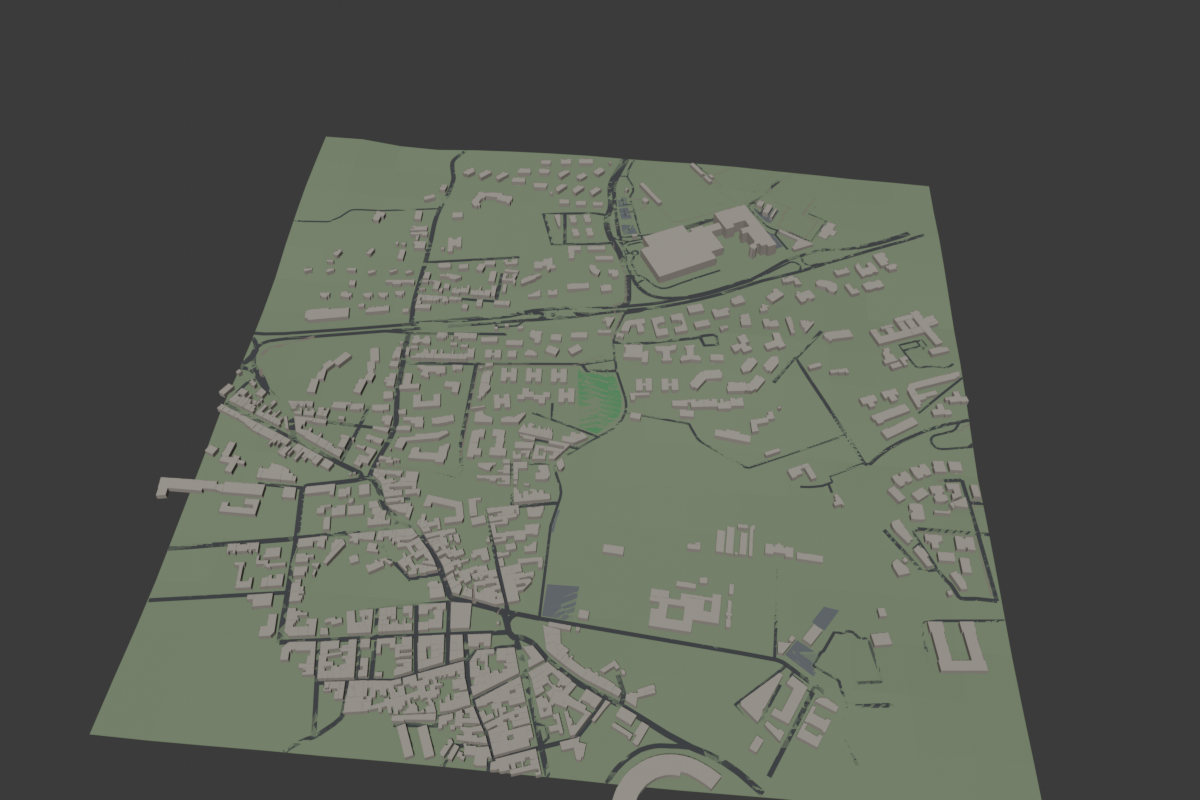
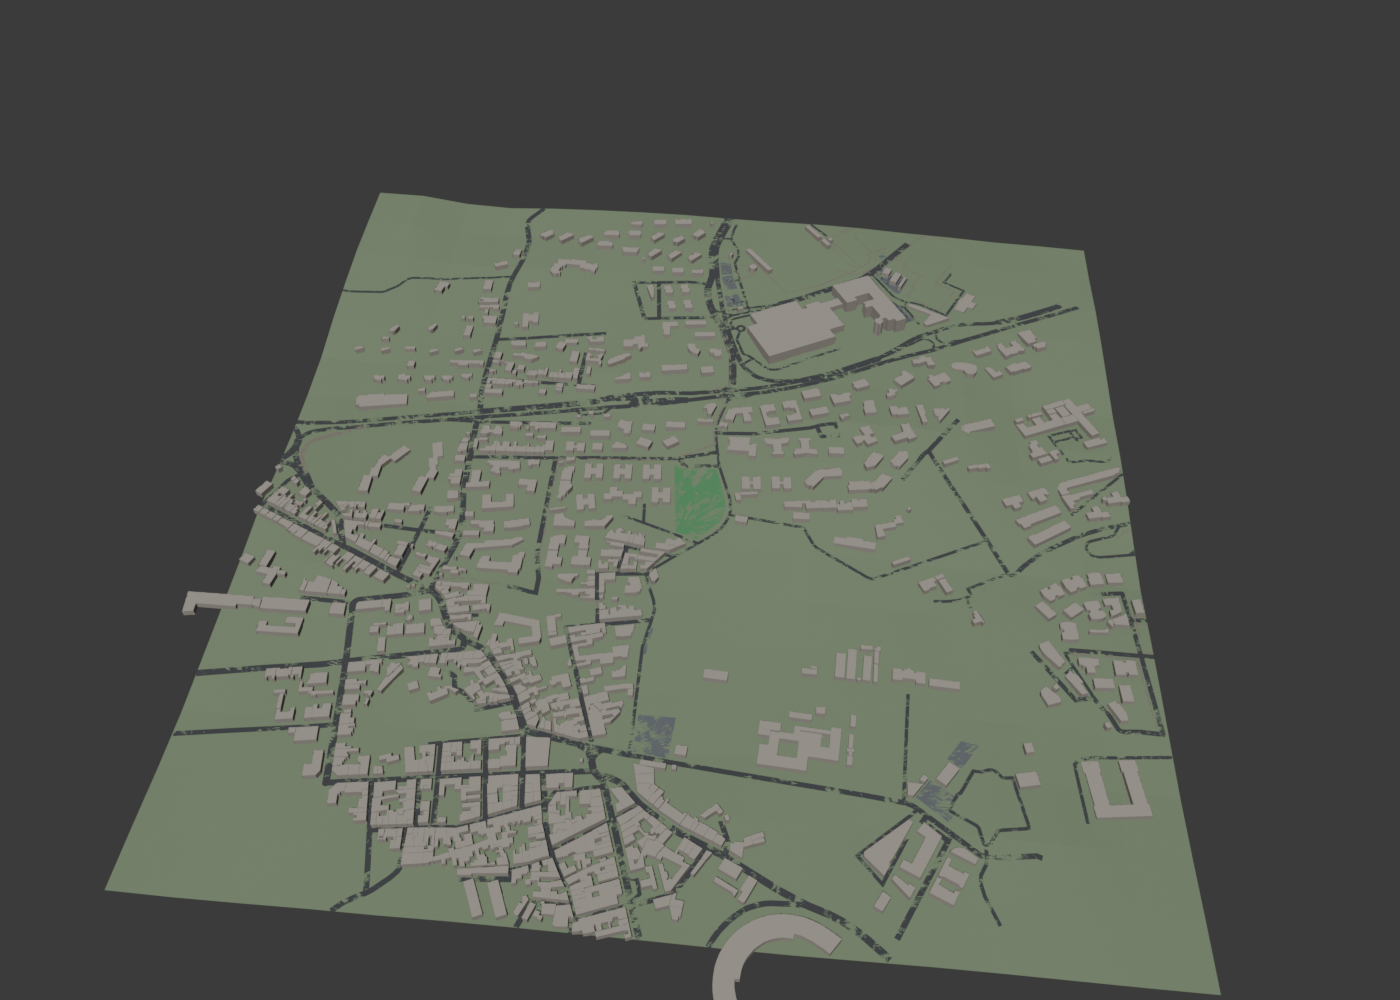
fixed issues of strange rappresentation of the map.

diff --git a/tools/build_blender_scene.py b/tools/build_blender_scene.py
@@ -13,6 +13,15 @@ from typing import Any
 
 import bpy
 from mathutils import Vector
+from mathutils.geometry import tessellate_polygon
+
+
+ROAD_SURFACE_OFFSET_M = 0.12
+PATH_SURFACE_OFFSET_M = 0.10
+AREA_SURFACE_OFFSET_M = 0.08
+ROAD_SAMPLE_STEP_M = 5.0
+AREA_SAMPLE_STEP_M = 10.0
+TERRAIN_SUBDIVISIONS = 4
 
 
 def arguments() -> argparse.Namespace:
@@ -95,37 +104,84 @@ class Terrain:
         )
 
 
-def terrain_mesh(value: dict[str, Any], parent: bpy.types.Collection, mat: bpy.types.Material) -> bpy.types.Object:
-    size = int(value["grid_size"])
-    vertices = [tuple(point) for point in value["samples_blender_xyz_m"]]
+def terrain_mesh(terrain: Terrain, parent: bpy.types.Collection, mat: bpy.types.Material) -> bpy.types.Object:
+    size = (terrain.size - 1) * TERRAIN_SUBDIVISIONS + 1
+    spacing = 2.0 * terrain.extent / (size - 1)
+    vertices: list[tuple[float, float, float]] = []
+    for row in range(size):
+        north = -terrain.extent + row * spacing
+        for col in range(size):
+            east = -terrain.extent + col * spacing
+            vertices.append((east, north, terrain.z(east, north)))
     faces: list[tuple[int, ...]] = []
     for row in range(size - 1):
         for col in range(size - 1):
             lower = row * size + col
-            faces.append((lower, lower + 1, lower + size + 1, lower + size))
+            faces.extend(
+                [
+                    (lower, lower + 1, lower + size + 1),
+                    (lower, lower + size + 1, lower + size),
+                ]
+            )
     obj = mesh_object("Terrain-col", vertices, faces, parent, mat)
-    obj["description"] = "DEM terrain; -col suffix is intended for Godot collision import"
+    obj["description"] = "Subdivided DEM terrain; -col suffix is intended for Godot collision import"
     return obj
 
 
-def strip_geometry(points: list[list[float]], width: float) -> tuple[list[tuple[float, float, float]], list[tuple[int, ...]]]:
+def horizontal_distance(left: tuple[float, float], right: tuple[float, float]) -> float:
+    return math.hypot(right[0] - left[0], right[1] - left[1])
+
+
+def draped_polyline(points: list[list[float]], terrain: Terrain, offset: float) -> list[tuple[float, float, float]]:
+    result: list[tuple[float, float, float]] = []
+    for left, right in zip(points, points[1:]):
+        length = horizontal_distance((left[0], left[1]), (right[0], right[1]))
+        pieces = max(1, int(math.ceil(length / ROAD_SAMPLE_STEP_M)))
+        for index in range(pieces):
+            ratio = index / pieces
+            east = left[0] + (right[0] - left[0]) * ratio
+            north = left[1] + (right[1] - left[1]) * ratio
+            if not result or horizontal_distance((east, north), result[-1][:2]) > 1e-5:
+                result.append((east, north, terrain.z(east, north) + offset))
+    last = points[-1]
+    result.append((last[0], last[1], terrain.z(last[0], last[1]) + offset))
+    return result
+
+
+def strip_geometry(
+    points: list[list[float]], width: float, terrain: Terrain, offset: float
+) -> tuple[list[tuple[float, float, float]], list[tuple[int, ...]]]:
+    centerline = draped_polyline(points, terrain, offset)
     vertices: list[tuple[float, float, float]] = []
-    for index, point in enumerate(points):
+    for index, point in enumerate(centerline):
         if index == 0:
-            tangent = Vector((points[1][0] - point[0], points[1][1] - point[1]))
-        elif index == len(points) - 1:
-            tangent = Vector((point[0] - points[index - 1][0], point[1] - points[index - 1][1]))
+            tangent = Vector((centerline[1][0] - point[0], centerline[1][1] - point[1])).normalized()
+            normal = Vector((-tangent.y, tangent.x))
+        elif index == len(centerline) - 1:
+            tangent = Vector((point[0] - centerline[index - 1][0], point[1] - centerline[index - 1][1])).normalized()
+            normal = Vector((-tangent.y, tangent.x))
         else:
-            tangent = Vector((points[index + 1][0] - points[index - 1][0], points[index + 1][1] - points[index - 1][1]))
-        tangent.normalize()
-        normal = Vector((-tangent.y, tangent.x)) * width * 0.5
+            previous = Vector((point[0] - centerline[index - 1][0], point[1] - centerline[index - 1][1])).normalized()
+            following = Vector((centerline[index + 1][0] - point[0], centerline[index + 1][1] - point[1])).normalized()
+            previous_normal = Vector((-previous.y, previous.x))
+            following_normal = Vector((-following.y, following.x))
+            normal = previous_normal + following_normal
+            if normal.length < 1e-6:
+                normal = following_normal
+            else:
+                normal.normalize()
+            correction = abs(normal.dot(following_normal))
+            normal *= min(2.25, 1.0 / max(correction, 0.45))
+        normal *= width * 0.5
+        left = (point[0] + normal.x, point[1] + normal.y)
+        right = (point[0] - normal.x, point[1] - normal.y)
         vertices.extend(
             [
-                (point[0] + normal.x, point[1] + normal.y, point[2]),
-                (point[0] - normal.x, point[1] - normal.y, point[2]),
+                (left[0], left[1], terrain.z(*left) + offset),
+                (right[0], right[1], terrain.z(*right) + offset),
             ]
         )
-    faces = [(2 * i, 2 * i + 1, 2 * i + 3, 2 * i + 2) for i in range(len(points) - 1)]
+    faces = [(2 * i, 2 * i + 1, 2 * i + 3, 2 * i + 2) for i in range(len(centerline) - 1)]
     return vertices, faces
 
 
@@ -151,29 +207,71 @@ def extruded_polygon(
     name: str,
     points: list[list[float]],
     height: float,
+    terrain: Terrain,
     parent: bpy.types.Collection,
     mat: bpy.types.Material,
 ) -> bpy.types.Object | None:
     base = polygon_points(points)
     if len(base) < 3:
         return None
-    vertices = base + [(x, y, z + height) for x, y, z in base]
+    base_z = min(terrain.z(x, y) for x, y, _z in base) + 0.03
+    vertices = [(x, y, base_z) for x, y, _z in base] + [(x, y, base_z + height) for x, y, _z in base]
     count = len(base)
     faces: list[tuple[int, ...]] = [tuple(reversed(range(count))), tuple(range(count, 2 * count))]
     faces.extend((i, (i + 1) % count, count + (i + 1) % count, count + i) for i in range(count))
     return mesh_object(name, vertices, faces, parent, mat)
 
 
-def flat_polygon(
+def subdivided_triangle(
+    triangle: tuple[Vector, Vector, Vector],
+    terrain: Terrain,
+    offset: float,
+    vertices: list[tuple[float, float, float]],
+    faces: list[tuple[int, ...]],
+) -> None:
+    a, b, c = triangle
+    if max((a - b).length, (b - c).length, (c - a).length) > AREA_SAMPLE_STEP_M:
+        ab, bc, ca = (a + b) * 0.5, (b + c) * 0.5, (c + a) * 0.5
+        for child in ((a, ab, ca), (ab, b, bc), (ca, bc, c), (ab, bc, ca)):
+            subdivided_triangle(child, terrain, offset, vertices, faces)
+        return
+    start = len(vertices)
+    vertices.extend((point.x, point.y, terrain.z(point.x, point.y) + offset) for point in triangle)
+    faces.append((start, start + 1, start + 2))
+
+
+def draped_polygon(
     name: str,
     points: list[list[float]],
+    terrain: Terrain,
     parent: bpy.types.Collection,
     mat: bpy.types.Material,
 ) -> bpy.types.Object | None:
-    vertices = polygon_points(points)
-    if len(vertices) < 3:
+    boundary = polygon_points(points)
+    if len(boundary) < 3:
         return None
-    return mesh_object(name, vertices, [tuple(range(len(vertices)))], parent, mat)
+    polygon = [Vector((x, y, 0.0)) for x, y, _z in boundary]
+    triangles = tessellate_polygon([polygon])
+    vertices: list[tuple[float, float, float]] = []
+    faces: list[tuple[int, ...]] = []
+    for triangle in triangles:
+        subdivided_triangle(tuple(polygon[index] for index in triangle), terrain, AREA_SURFACE_OFFSET_M, vertices, faces)
+    return mesh_object(name, vertices, faces, parent, mat) if faces else None
+
+
+def junction_geometry(
+    east: float, north: float, radius: float, terrain: Terrain
+) -> tuple[list[tuple[float, float, float]], list[tuple[int, ...]]]:
+    segments = 16
+    offset = ROAD_SURFACE_OFFSET_M + 0.004
+    vertices = [(east, north, terrain.z(east, north) + offset)]
+    for index in range(segments):
+        angle = 2.0 * math.pi * index / segments
+        x = east + radius * math.cos(angle)
+        y = north + radius * math.sin(angle)
+        vertices.append((x, y, terrain.z(x, y) + offset))
+    faces = [(0, index + 1, (index + 1) % segments + 1) for index in range(segments)]
+    return vertices, faces
 
 
 def attach_osm_metadata(obj: bpy.types.Object | None, feature: dict[str, Any]) -> None:
@@ -212,6 +310,7 @@ def build_scene(scene_data: dict[str, Any]) -> None:
 
     terrain_collection = collection("Terrain")
     roads_collection = collection("Roads_Drivable")
+    junction_collection = collection("Road_Junctions")
     paths_collection = collection("Paths_NonDrivable")
     parking_collection = collection("Parking")
     parks_collection = collection("Parks")
@@ -226,13 +325,15 @@ def build_scene(scene_data: dict[str, Any]) -> None:
         "building": material("Building", (0.52, 0.48, 0.42, 1.0)),
     }
     terrain = Terrain(scene_data["terrain"])
-    terrain_mesh(scene_data["terrain"], terrain_collection, mats["terrain"])
+    terrain_mesh(terrain, terrain_collection, mats["terrain"])
+    road_endpoints: dict[tuple[float, float], list[tuple[float, float, float]]] = {}
     for feature in scene_data["features"]:
         kind = feature["kind"]
         points = feature["points_blender_xyz_m"]
         osm_id = feature["osm_way_id"]
         if kind == "road" and len(points) >= 2:
-            vertices, faces = strip_geometry(points, float(feature["width_m"]))
+            surface_offset = ROAD_SURFACE_OFFSET_M if feature["drivable"] else PATH_SURFACE_OFFSET_M
+            vertices, faces = strip_geometry(points, float(feature["width_m"]), terrain, surface_offset)
             target = roads_collection if feature["drivable"] else paths_collection
             prefix = "NAV_Road" if feature["drivable"] else "Path"
             obj = mesh_object(f"{prefix}_{osm_id}", vertices, faces, target, mats["road" if feature["drivable"] else "path"])
@@ -240,19 +341,32 @@ def build_scene(scene_data: dict[str, Any]) -> None:
             obj["width_source"] = feature["width_source"]
             obj["drivable"] = bool(feature["drivable"])
             attach_osm_metadata(obj, feature)
+            if feature["drivable"]:
+                for point in (points[0], points[-1]):
+                    if abs(point[0]) < terrain.extent - 0.1 and abs(point[1]) < terrain.extent - 0.1:
+                        key = (round(point[0], 2), round(point[1], 2))
+                        road_endpoints.setdefault(key, []).append((point[0], point[1], float(feature["width_m"])))
         elif kind == "parking":
-            attach_osm_metadata(flat_polygon(f"Parking_{osm_id}", points, parking_collection, mats["parking"]), feature)
+            attach_osm_metadata(draped_polygon(f"Parking_{osm_id}", points, terrain, parking_collection, mats["parking"]), feature)
         elif kind == "park":
-            attach_osm_metadata(flat_polygon(f"Park_{osm_id}", points, parks_collection, mats["park"]), feature)
+            attach_osm_metadata(draped_polygon(f"Park_{osm_id}", points, terrain, parks_collection, mats["park"]), feature)
         elif kind == "building":
             obj = extruded_polygon(
                 f"Building_{osm_id}",
                 points,
                 building_height(feature.get("tags", {})),
+                terrain,
                 buildings_collection,
                 mats["building"],
             )
             attach_osm_metadata(obj, feature)
+    for index, entries in enumerate(road_endpoints.values()):
+        if len(entries) < 2:
+            continue
+        east, north, _width = entries[0]
+        radius = max(item[2] for item in entries) * 0.52
+        vertices, faces = junction_geometry(east, north, radius, terrain)
+        mesh_object(f"Road_Junction_{index:03d}", vertices, faces, junction_collection, mats["road"])
     add_sun_and_camera(terrain.extent, terrain)
 
 

diff --git a/README.md b/README.md
@@ -8,6 +8,8 @@ Questo progetto genera una mappa 3D dell'area attorno al **Parco Gandhi di Catan
 
 - `outputs/parco_gandhi_catania.blend`: scena sorgente Blender.
 - `outputs/parco_gandhi_catania.glb`: export glTF/GLB per motori 3D.
+- `outputs/parco_gandhi_catania_preview.png`: anteprima prospettica della scena.
+- `outputs/parco_gandhi_catania_top.png`: controllo planimetrico zenitale.
 - `godot/main.tscn`: scena Godot che istanzia la mappa.
 - `godot/data/parco_gandhi_catania_road_network.json`: rete stradale per la logica del bus.
 - `data/parco_gandhi_catania/osm_overpass_raw.json`: estrazione OSM originale conservata.
@@ -36,6 +38,12 @@ Il file `road_network.json` espone per ciascun tratto:
 - ampiezza usata per la mesh e relativa provenienza (`width_source`);
 - pendenza stimata di ogni segmento;
 - raggio e angolo delle curve ricavati dalla polilinea OSM.
+
+La geometria visuale drappeggia strade, parcheggi e parco sul terreno DEM. Le
+carreggiate sono infittite ogni `5 m` e gli estremi OSM condivisi ricevono un
+raccordo, evitando punte o tratti che scompaiono dentro un versante inclinato.
+Le strade che terminano esattamente sul bordo esterno della scena sono tagliate
+dal perimetro di esportazione configurato, non dalla rete OSM.
 
 ## Rigenerazione
 